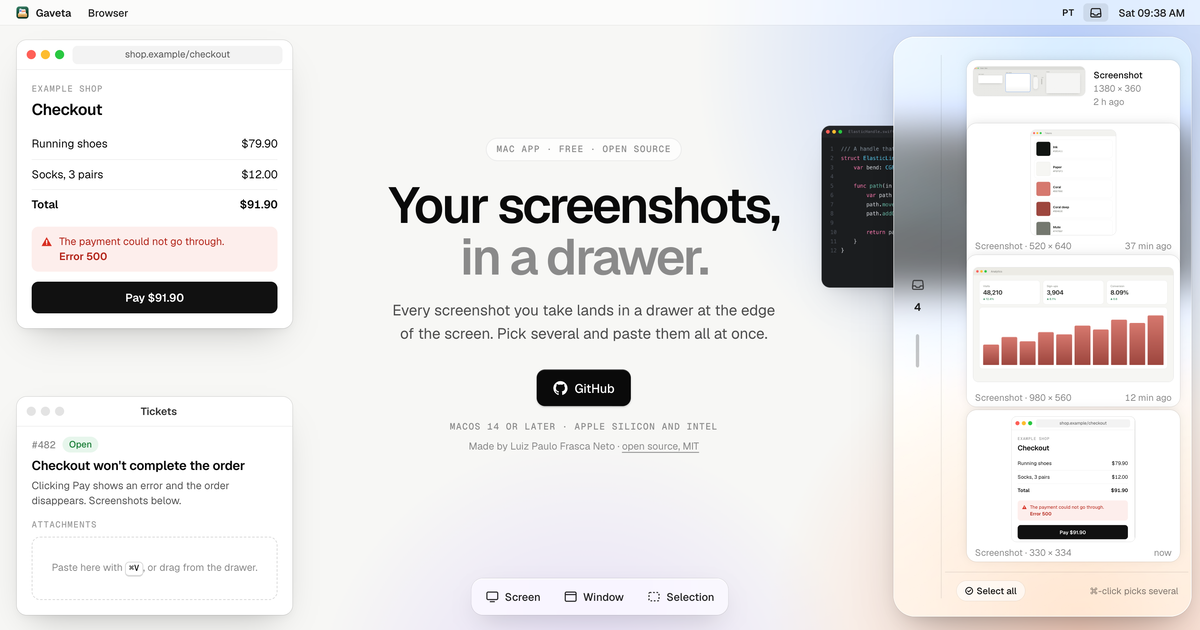
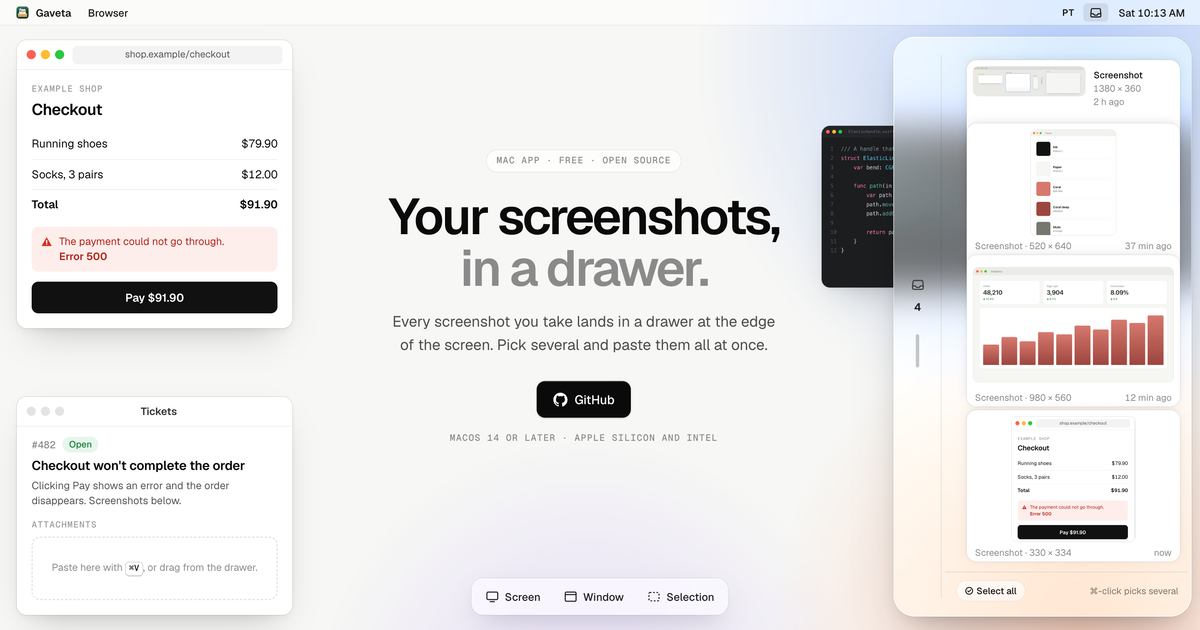
Landing sem a linha de crédito

diff --git a/site/index.html b/site/index.html
@@ -123,8 +123,6 @@ kbd {
 .botao:active { transform: scale(0.96); }
 .botao svg { width: 17px; height: 17px; }
 .nota { margin: 1rem 0 0; font: 500 0.6875rem/1.6 var(--mono); letter-spacing: 0.08em; text-transform: uppercase; color: var(--tinta-muda); }
-.credito { margin: 0.35rem 0 0; font-size: 0.75rem; color: var(--tinta-muda); }
-.credito a { text-underline-offset: 3px; }
 
 /* ── windows ────────────────────────────────────────────────────────────── */
 .janela {
@@ -448,7 +446,6 @@ kbd {
       GitHub
     </a>
     <p class="nota">macOS 14 ou mais novo · Apple silicon e Intel</p>
-    <p class="credito">Feita por Luiz Paulo Frasca Neto · <a href="https://github.com/Frasca-99/gaveta">código aberto, MIT</a></p>
   </section>
 
   <article class="janela j-loja" id="loja" data-app="Navegador" aria-label="Navegador: a loja deu erro no pagamento">

diff --git a/site/en/index.html b/site/en/index.html
@@ -118,8 +118,6 @@ kbd {
 .botao:active { transform: scale(0.96); }
 .botao svg { width: 17px; height: 17px; }
 .nota { margin: 1rem 0 0; font: 500 0.6875rem/1.6 var(--mono); letter-spacing: 0.08em; text-transform: uppercase; color: var(--tinta-muda); }
-.credito { margin: 0.35rem 0 0; font-size: 0.75rem; color: var(--tinta-muda); }
-.credito a { text-underline-offset: 3px; }
 
 /* ── windows ────────────────────────────────────────────────────────────── */
 .janela {
@@ -443,7 +441,6 @@ kbd {
       GitHub
     </a>
     <p class="nota">macOS 14 or later · Apple silicon and Intel</p>
-    <p class="credito">Made by Luiz Paulo Frasca Neto · <a href="https://github.com/Frasca-99/gaveta">open source, MIT</a></p>
   </section>
 
   <article class="janela j-loja" id="loja" data-app="Browser" aria-label="Browser: the shop failed to take the payment">

diff --git a/site/vidro/vidro.css b/site/vidro/vidro.css
@@ -94,8 +94,6 @@ kbd {
 .botao:active { transform: scale(0.96); }
 .botao svg { width: 17px; height: 17px; }
 .nota { margin: 1rem 0 0; font: 500 0.6875rem/1.6 var(--mono); letter-spacing: 0.08em; text-transform: uppercase; color: var(--tinta-muda); }
-.credito { margin: 0.35rem 0 0; font-size: 0.75rem; color: var(--tinta-muda); }
-.credito a { text-underline-offset: 3px; }
 
 /* ── windows ────────────────────────────────────────────────────────────── */
 .janela {

diff --git a/site/vidro/pagina.html b/site/vidro/pagina.html
@@ -23,7 +23,6 @@
       GitHub
     </a>
     <p class="nota">macOS 14 ou mais novo · Apple silicon e Intel</p>
-    <p class="credito">Feita por Luiz Paulo Frasca Neto · <a href="{{REPO}}">código aberto, MIT</a></p>
   </section>
 
   <article class="janela j-loja" id="loja" data-app="Navegador" aria-label="Navegador: a loja deu erro no pagamento">
